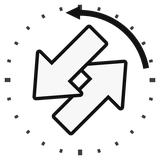
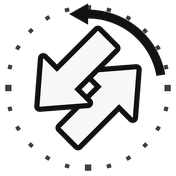
Thicken and enlarge the title mark; let each clip loop on its own
The mark's strokes vanished at the size it renders, so the weights are now
scaled by a WEIGHT multiplier — 1.4 for this asset, left at 1.0 for the teaser
set, which plays large enough not to need it. Height goes 0.92em to 1.16em, so
56px, and the sources are 176px to cover a 3x display.

Clips go back to looping independently. Pair-synced looping kept them in step
but the shorter one had to hold on its last frame, and on Stacking-and-Peg that
was a long wait. Opening a tab still rewinds and starts both together.

The unaided Stacking-and-Peg run carries data-rate=0.8; setupTaskTabs reads it
and slows that clip so it can be followed beside the RPM one.

diff --git a/index.html b/index.html
@@ -54,7 +54,7 @@
 
   <!-- Critical CSS -->
   <link rel="stylesheet" href="static/css/bulma.min.css">
-  <link rel="stylesheet" href="static/css/index.css?v=14">
+  <link rel="stylesheet" href="static/css/index.css?v=16">
 
   <!-- Non-critical CSS -->
   <link rel="preload" href="static/css/fontawesome.all.min.css" as="style" onload="this.onload=null;this.rel='stylesheet'">
@@ -67,7 +67,7 @@
   <link href="https://fonts.googleapis.com/css2?family=Inter:wght@400;500;600;700;800&display=swap" rel="stylesheet">
 
   <script defer src="static/js/fontawesome.all.min.js"></script>
-  <script defer src="static/js/index.js?v=14"></script>
+  <script defer src="static/js/index.js?v=16"></script>
 
   <script type="application/ld+json">
   {
@@ -107,7 +107,7 @@
             <!-- The three letters of the acronym are picked out in the card blue.
                  The mark beside them is the animated reverse card; <source> swaps it for a
                  still frame when the visitor has asked for reduced motion. -->
-            <h1 class="title is-1 publication-title"><picture class="title-mark"><source srcset="static/images/reverse_mark_static.png" media="(prefers-reduced-motion: reduce)"><source srcset="static/images/reverse_mark.webp" type="image/webp"><img src="static/images/reverse_mark.gif" alt="" width="160" height="160"></picture><span class="rpm-initial">R</span>everse <span class="rpm-initial">P</span>layback <span class="rpm-initial">M</span>otion:<br>A Simple Way for Anyone to Obtain High-Quality Demonstration Data</h1>
+            <h1 class="title is-1 publication-title"><picture class="title-mark"><source srcset="static/images/reverse_mark_static.png" media="(prefers-reduced-motion: reduce)"><source srcset="static/images/reverse_mark.webp" type="image/webp"><img src="static/images/reverse_mark.gif" alt="" width="176" height="176"></picture><span class="rpm-initial">R</span>everse <span class="rpm-initial">P</span>layback <span class="rpm-initial">M</span>otion:<br>A Simple Way for Anyone to Obtain High-Quality Demonstration Data</h1>
             <!-- To link an author, wrap the name only (not the superscripts):
                    <span class="author-block"><a href="https://scholar.google.com/citations?user=ID"
                      target="_blank">Hyunjun Kim</a><sup>1</sup><sup>*</sup>,</span>
@@ -352,13 +352,13 @@
         <div class="task-panel is-active" role="tabpanel" id="task-panel-cube-stacking" aria-labelledby="task-tab-cube-stacking">
           <div class="task-videos">
             <figure>
-              <video muted playsinline preload="metadata">
+              <video muted loop playsinline preload="metadata">
                 <source src="static/videos/cube_stacking_baseline.mp4" type="video/mp4">
               </video>
               <figcaption>Without RPM</figcaption>
             </figure>
             <figure>
-              <video muted playsinline preload="metadata">
+              <video muted loop playsinline preload="metadata">
                 <source src="static/videos/cube_stacking_rpm.mp4" type="video/mp4">
               </video>
               <figcaption class="is-rpm">With RPM</figcaption>
@@ -370,13 +370,13 @@
         <div class="task-panel" role="tabpanel" id="task-panel-slot-insertion" aria-labelledby="task-tab-slot-insertion" hidden>
           <div class="task-videos">
             <figure>
-              <video muted playsinline preload="metadata">
+              <video muted loop playsinline preload="metadata">
                 <source src="static/videos/slot_insertion_baseline.mp4" type="video/mp4">
               </video>
               <figcaption>Without RPM</figcaption>
             </figure>
             <figure>
-              <video muted playsinline preload="metadata">
+              <video muted loop playsinline preload="metadata">
                 <source src="static/videos/slot_insertion_rpm.mp4" type="video/mp4">
               </video>
               <figcaption class="is-rpm">With RPM</figcaption>
@@ -388,13 +388,13 @@
         <div class="task-panel" role="tabpanel" id="task-panel-peg-in-hole" aria-labelledby="task-tab-peg-in-hole" hidden>
           <div class="task-videos">
             <figure>
-              <video muted playsinline preload="metadata">
+              <video muted loop playsinline preload="metadata">
                 <source src="static/videos/peg_in_hole_baseline.mp4" type="video/mp4">
               </video>
               <figcaption>Without RPM</figcaption>
             </figure>
             <figure>
-              <video muted playsinline preload="metadata">
+              <video muted loop playsinline preload="metadata">
                 <source src="static/videos/peg_in_hole_rpm.mp4" type="video/mp4">
               </video>
               <figcaption class="is-rpm">With RPM</figcaption>
@@ -420,13 +420,14 @@
         <div class="task-panel" role="tabpanel" id="task-panel-stacking-and-peg" aria-labelledby="task-tab-stacking-and-peg" hidden>
           <div class="task-videos">
             <figure>
-              <video muted playsinline preload="metadata">
+              <!-- The unaided run is laboured; 0.8x keeps it legible beside the RPM one. -->
+              <video muted loop playsinline preload="metadata" data-rate="0.8">
                 <source src="static/videos/stacking_and_peg_baseline.mp4" type="video/mp4">
               </video>
               <figcaption>Without RPM</figcaption>
             </figure>
             <figure>
-              <video muted playsinline preload="metadata">
+              <video muted loop playsinline preload="metadata">
                 <source src="static/videos/stacking_and_peg_rpm.mp4" type="video/mp4">
               </video>
               <figcaption class="is-rpm">With RPM</figcaption>

diff --git a/static/js/index.js b/static/js/index.js
@@ -120,9 +120,11 @@ function setupVideoCarouselAutoplay() {
     });
 }
 
-// Per-task rollout tabs: show one task's baseline/RPM pair at a time. Clicking a
-// tab restarts that pair from zero and plays both, so the two clips are always
-// compared from the same instant, and only the visible pair decodes.
+// Per-task rollout tabs: show one task's baseline/RPM pair at a time. Opening a
+// tab rewinds both clips and starts them together, so the comparison always
+// begins at the same instant; after that each loops on its own, since the pair
+// differ in length and holding the shorter one on its last frame meant a long
+// wait on the multi-stage task. Only the visible pair decodes.
 function setupTaskTabs() {
     const tabs = Array.from(document.querySelectorAll('.task-tab'));
     if (tabs.length === 0) return;
@@ -137,26 +139,14 @@ function setupTaskTabs() {
     }
 
     function startPair(panel) {
-        const clips = clipsOf(panel);
-        clips.forEach(rewind);
-        clips.forEach(function(video) {
+        clipsOf(panel).forEach(function(video) {
+            rewind(video);
+            // data-rate slows a clip that is hard to follow at full speed.
+            const rate = parseFloat(video.dataset.rate || '1');
+            if (rate > 0 && rate !== video.playbackRate) video.playbackRate = rate;
             video.play().catch(function() { /* autoplay may be blocked */ });
         });
     }
-
-    // Loop the pair as a unit. The clips differ in length — the RPM run finishes
-    // sooner — so looping them independently would drift them apart after one
-    // pass. Waiting for both means the quicker one holds on its last frame,
-    // which is itself the point being made.
-    panels.forEach(function(panel) {
-        const clips = clipsOf(panel);
-        clips.forEach(function(video) {
-            video.addEventListener('ended', function() {
-                if (!panel.classList.contains('is-active')) return;
-                if (clips.every(function(c) { return c.ended; })) startPair(panel);
-            });
-        });
-    });
 
     function activate(index) {
         tabs.forEach(function(tab, i) {

diff --git a/static/css/index.css b/static/css/index.css
@@ -1032,8 +1032,8 @@ a:focus {
    tracks the heading as Bulma resizes it — no breakpoint of its own. */
 .title-mark img {
   display: inline;
-  height: 0.92em;
+  height: 1.16em;
   width: auto;
-  vertical-align: -0.14em;
-  margin-right: 0.22em;
+  vertical-align: -0.24em;
+  margin-right: 0.24em;
 }
